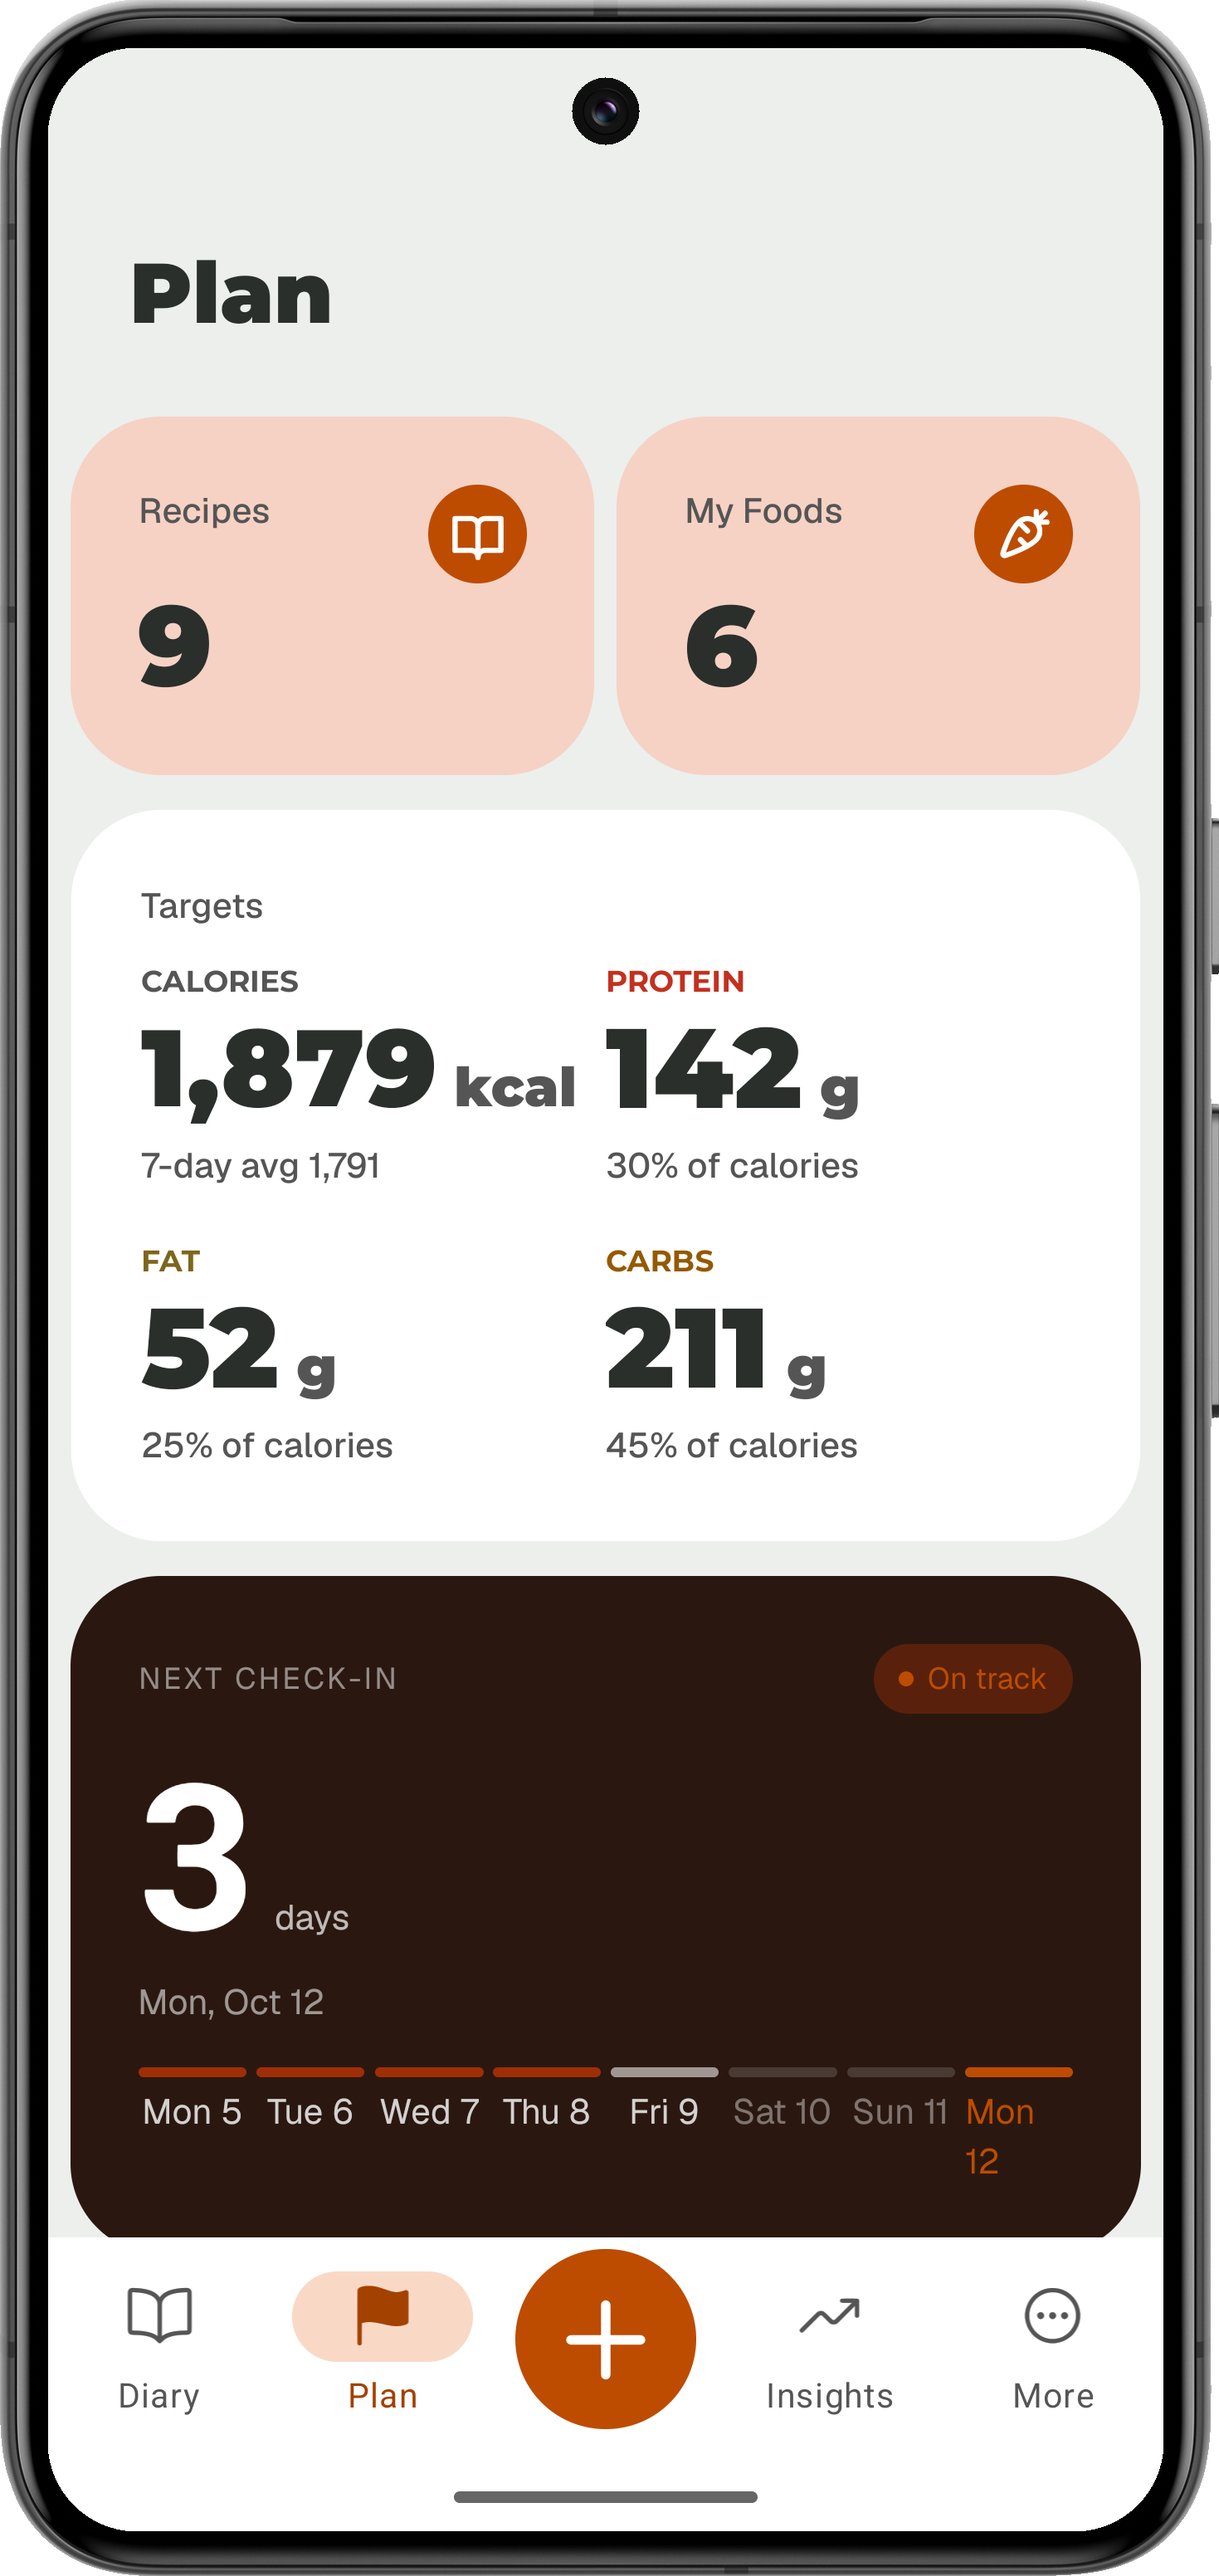
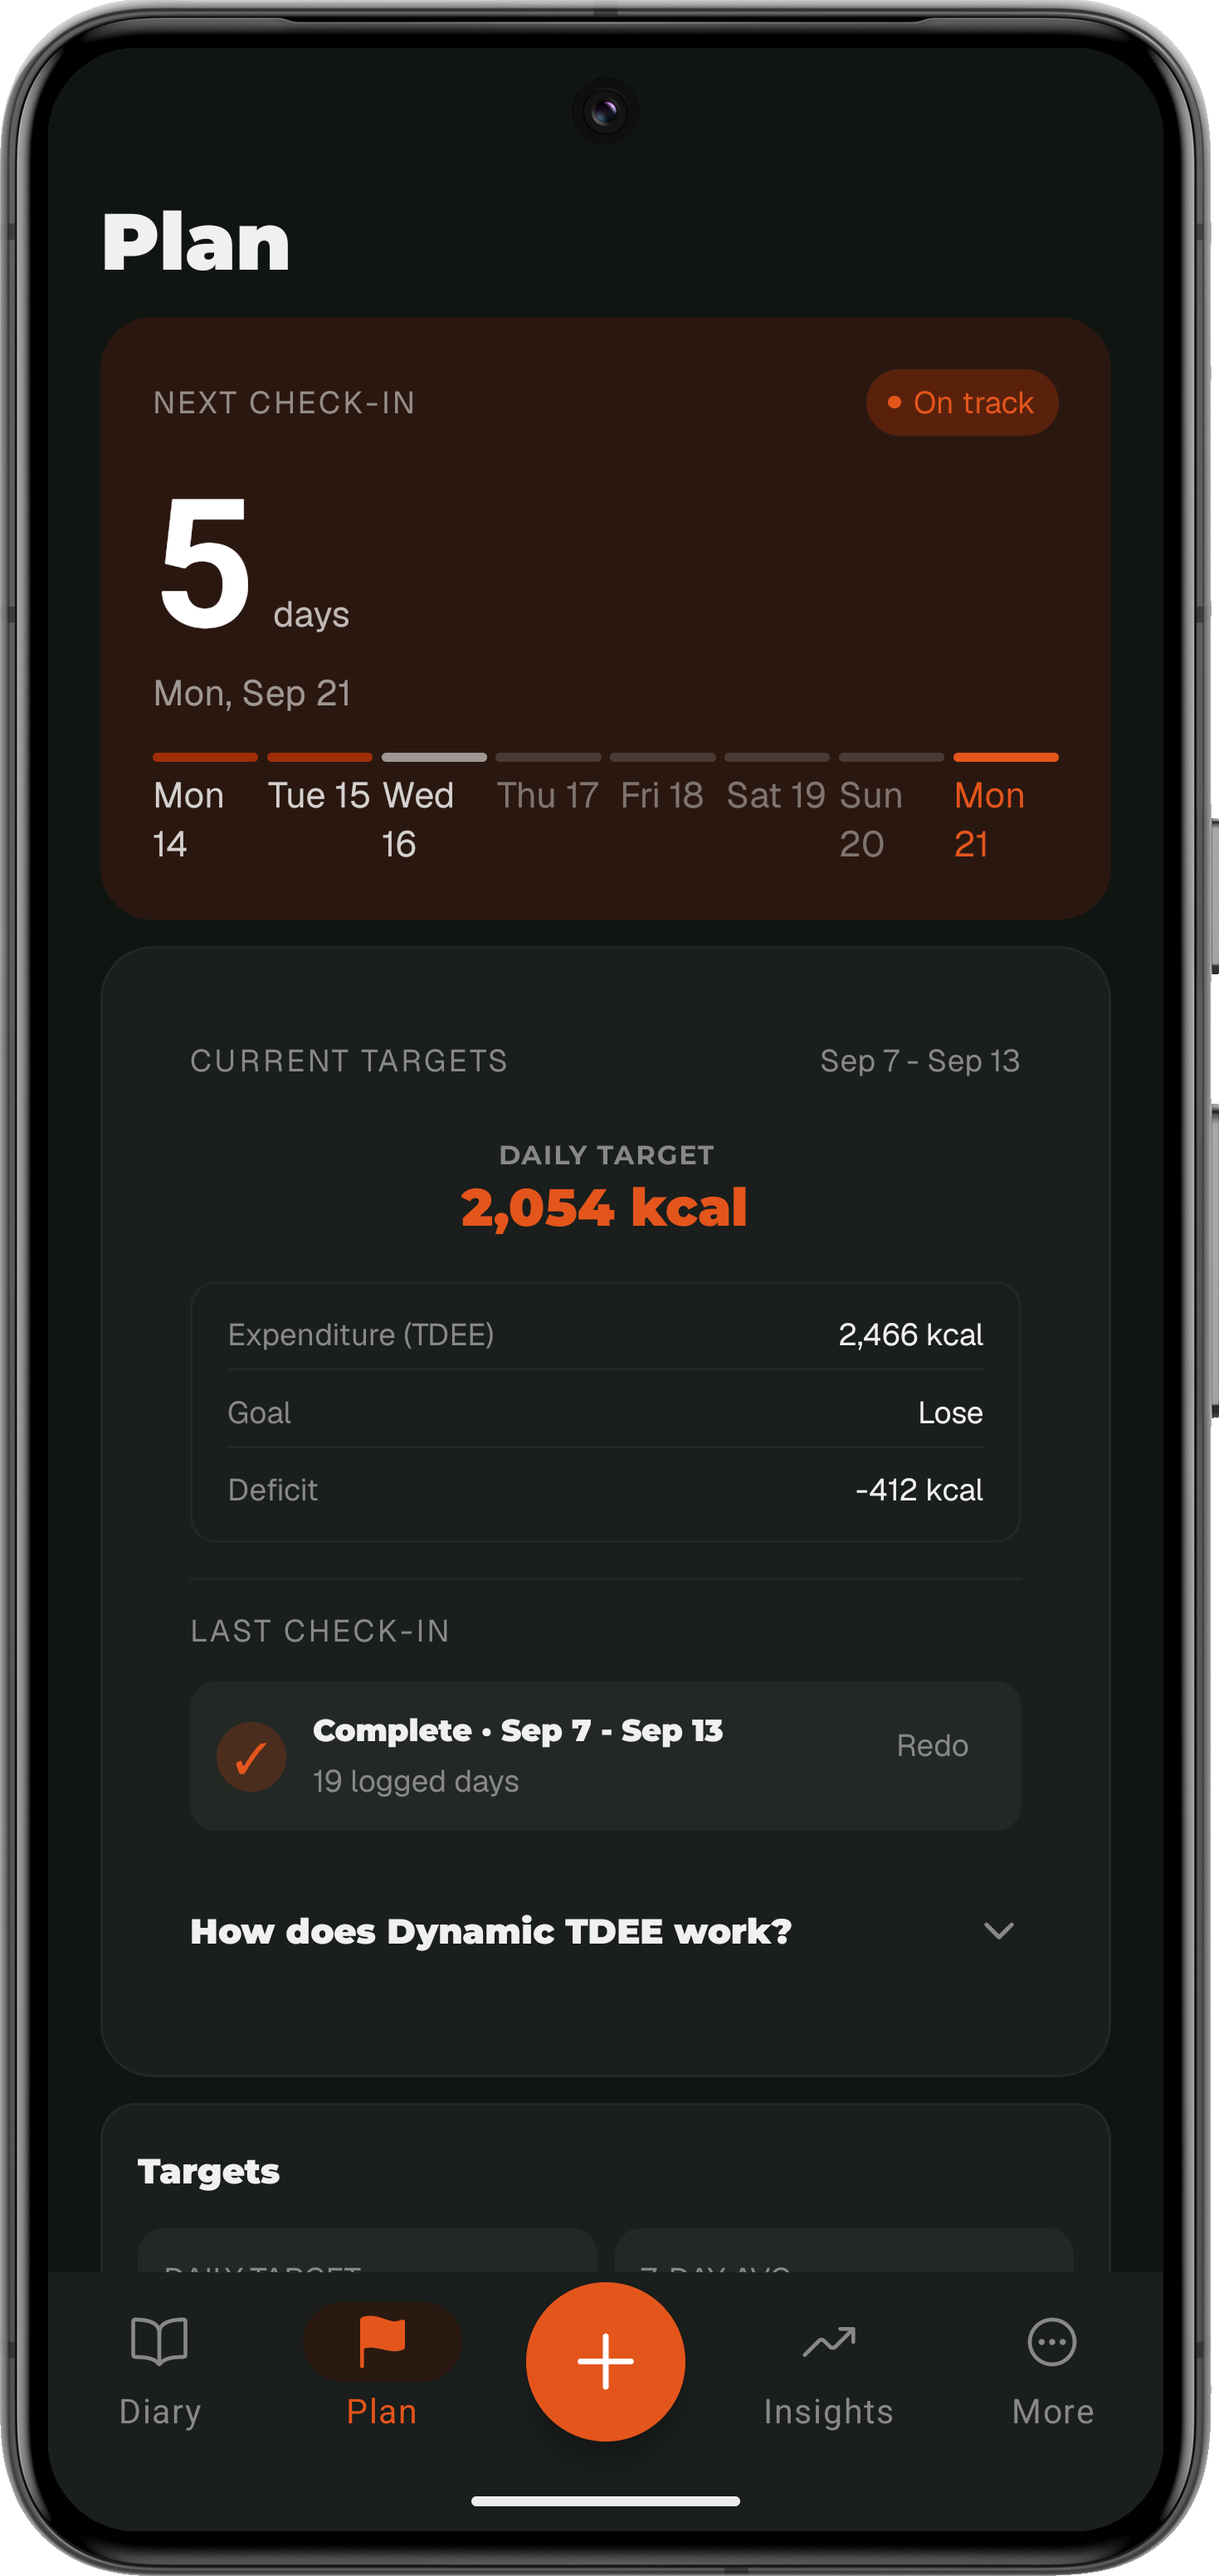
Revert "Recapture the app in its redesigned light theme and drop the hero frames"
This reverts commit dcf502ed3bc90ebfb509383c9a7859152d36a831.

diff --git a/src/content/landing/screen-rail.md b/src/content/landing/screen-rail.md
@@ -6,7 +6,7 @@ screens:
   - title: "Today at a glance"
     caption: "Calories, macros, water and the micronutrients you chose."
     image: ../../assets/screens/screen-today.webp
-    alt: "PocketChomp diary for Friday the 9th showing 1,765 of 1,879 calories, protein, fat and carb bars, a nutrients card for fibre, potassium, magnesium, sodium, calcium and iron, and water"
+    alt: "PocketChomp diary for Wednesday the 16th showing 2,034 of 2,054 calories, protein, fat and carb bars, water, and progress for fibre, potassium, magnesium, sodium, calcium and iron"
     tier: free
   - title: "Barcode scanning stays free"
     caption: "Point, scan, logged. No scan limit, no upgrade."
@@ -26,7 +26,7 @@ screens:
   - title: "Build the plate first"
     caption: "Adjust portions, set the time, confirm. Nothing is written until you do."
     image: ../../assets/screens/screen-plate.webp
-    alt: "PocketChomp plate sheet holding nachos with cheese at half a serving, 194 calories, a 10:00 AM time, and Save as meal and Add to Diary buttons"
+    alt: "PocketChomp plate of four items totalling 606 calories, with portion steppers for sliced bread, egg whites, half an avocado and a banana, a 10:00 AM time and an Add to Diary button"
     tier: free
   - title: "Your data stays on your device"
     caption: "No account needed. Cloud sync is a choice, not a condition."
@@ -39,13 +39,13 @@ screens:
     alt: "PocketChomp add food screen in airplane mode with an offline notice, and a chicken search still returning Health Canada, USDA and Kirkland results"
     tier: free
   - title: "Hide calories entirely"
-    caption: "Hide calories everywhere, or pick a different number to lead with."
+    caption: "Hide calories everywhere. Make protein the big number."
     image: ../../assets/screens/screen-metrics.webp
-    alt: "PocketChomp metrics settings with Hide Calories switched on and no hero metric selected for the diary"
+    alt: "PocketChomp metrics settings with Hide Calories switched on and Protein selected as the diary's hero metric"
     tier: free
   - title: "Targets that adapt"
     caption: "A weekly check-in sets next week's target from your real expenditure."
     image: ../../assets/screens/screen-plan.webp
-    alt: "PocketChomp plan showing recipe and food counts, a 1,879 kcal daily target with protein, fat and carb targets, and the next check-in in 3 days, on track"
+    alt: "PocketChomp plan showing the next check-in in 5 days, on track, a 2,054 kcal daily target, 2,466 kcal expenditure and a 412 kcal deficit"
     tier: plus
 ---

diff --git a/src/content/landing/hero.md b/src/content/landing/hero.md
@@ -12,7 +12,7 @@ accents:
     tint: carb
   - text: no catch.
     tint: ember
-description: Scan what's in your cart and it comes up, house brand and all. Every nutrient against your targets, and the log stays on your phone.
+description: Scan what is in your cart and it comes up, house brand and all. Log it in seconds, see every nutrient against your own targets, and keep the whole log on your phone.
 primaryCtaText: Join the beta
 primaryCtaLink: "#signup"
 secondaryCtaText: See how it works

diff --git a/src/content/landing/modular-feature.md b/src/content/landing/modular-feature.md
@@ -9,5 +9,5 @@ bullets:
   - Mindful mode hides calories across the whole app
 panelLabel: Straight from the app
 image: ../../assets/ui/ui-metrics-panel.webp
-imageAlt: PocketChomp metrics settings with Hide Calories switched on and no hero metric chosen for the diary
+imageAlt: PocketChomp metrics settings with Hide Calories switched on and protein chosen as the diary's hero number
 ---
